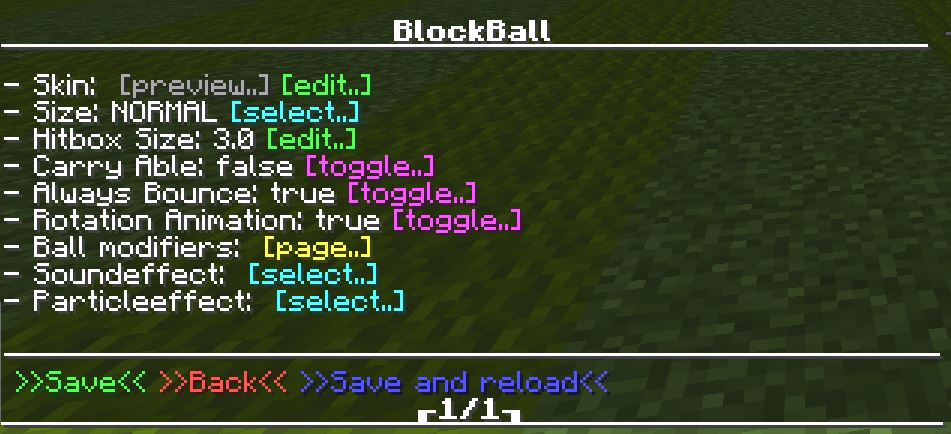
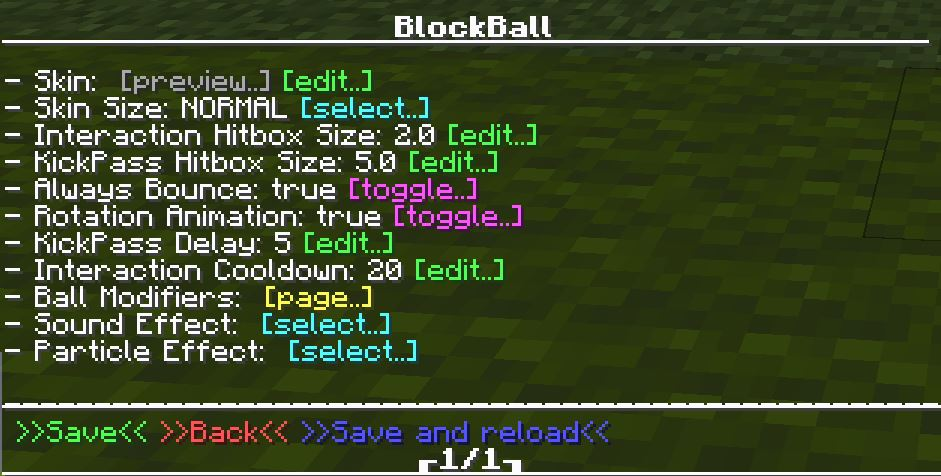
#333 Updated ball docs.

diff --git a/docs/source/customizing/ball.rst b/docs/source/customizing/ball.rst
@@ -1,11 +1,11 @@
 Ball
 ====
 
-One of the most outstanding features of BlockBall is it to provide a really awesome looking ball with working animations. You
+One of the most outstanding features of BlockBall is it to provide a really awesome looking ball with its own physic engine. You
 **do not** have to install a mod or Texture Pack in order to make this possible.
 
-The origin physic engine of the Ball was developed back in 2015 and is now replaced by the more advanced 2018 engine. There are many
-modifier values you can adjust.
+The original physic engine of the Ball was developed back in 2015 which was replaced by a more advanced engine in 2018. Finally,
+the engine was completely redesigned from scratch to fully run on packets only in 2020.
 
 .. image:: ../_static/images/ball3.png
 
@@ -14,9 +14,7 @@ You can even set your own skin or custom texture model to it.
 Configuring ingame
 ~~~~~~~~~~~~~~~~~~
 
-The Ball is per default correctly configured but can be changed for different situations like a small or a very large arena.
-
-
+The Ball is per default correctly configured but can be adjusted to deal with different situations like small or a very large arenas.
 
 1. Go to the **Settings Page** of your arena
 2. Open the **Ball Settings Page**
@@ -24,7 +22,7 @@ The Ball is per default correctly configured but can be changed for different si
 .. image:: ../_static/images/ball1.JPG
 
 3. Customize the skin or other values to your own needs.
-4. Open the Ball modifiers page to adjust modifiers like the rolling distance
+4. Open the Ball modifiers page to adjust even more physic engine modifiers.
 
 .. image:: ../_static/images/ball2.JPG
 
@@ -43,142 +41,173 @@ At this stage, you should be able to find your arena save file. If not, please t
 .. code-block:: yaml
 
     ball:
-      skin: http://textures.minecraft.net/texture/8e4a70b7bbcd7a8c322d522520491a27ea6b83d60ecf961d2b4efbbf9f605d
       size: NORMAL
-      hitbox-size: 3.0
-      carry-able: false
-      always-bounce: true
+      skin: http://textures.minecraft.net/texture/8e4a70b7bbcd7a8c322d522520491a27ea6b83d60ecf961d2b4efbbf9f605d
+      interaction-hitbox-size: 2.0
+      kickpass-hitbox-size: 5.0
+      kickpass-delay-ticks: 5
+      interaction-cooldown-ticks: 20
       rotating: true
+      enable-kick: true
+      enable-pass: true
+      enable-interact: true
+      hitbox-relocation: 0.0
+      always-bounce: true
       modifiers:
+        gravity-mod: 0.07
+        air-resistance: 0.001
+        rolling-resistance: 0.1
         horizontal-touch: 1.0
         vertical-touch: 1.0
-        horizontal-kick: 1.5
-        vertical-kick: 1.5
-        horizontal-throw: 1.0
-        vertical-throw: 1.0
-        rolling-distance: 1.0
-        gravity: 1.0
+        shot-velocity: 1.5
+        pass-velocity: 1.2
+        max-spin: 0.08
+        max-pitch: 60
+        min-pitch: 0
+        default-pitch: 20
       particle-effects:
-        onmove:
-          effecting: EVERYONE
-          name: none
+        ONINTERACTION:
+          name: NONE
           amount: 0
           speed: 0.0
           offset:
             x: 0.0
             y: 0.0
             z: 0.0
-        onkick:
-          effecting: EVERYONE
-          name: none
+          data: 0
+        ONMOVE:
+          name: NONE
           amount: 0
           speed: 0.0
           offset:
             x: 0.0
             y: 0.0
             z: 0.0
-        onspawn:
-          effecting: EVERYONE
-          name: none
+          data: 0
+        ONSPAWN:
+          name: EXPLOSION_NORMAL
+          amount: 10
+          speed: 0.1
+          offset:
+            x: 2.0
+            y: 2.0
+            z: 2.0
+          data: 0
+        ONKICK:
+          name: EXPLOSION_LARGE
+          amount: 2
+          speed: 0.1
+          offset:
+            x: 0.1
+            y: 0.1
+            z: 0.1
+          data: 0
+        ONGOAL:
+          name: NONE
           amount: 0
           speed: 0.0
           offset:
             x: 0.0
             y: 0.0
             z: 0.0
-        onthrow:
-          effecting: EVERYONE
-          name: none
+          data: 0
+        ONTHROW:
+          name: NONE
           amount: 0
           speed: 0.0
           offset:
             x: 0.0
             y: 0.0
             z: 0.0
-        oninteraction:
-          effecting: EVERYONE
-          name: none
+          data: 0
+        ONGRAB:
+          name: NONE
           amount: 0
           speed: 0.0
           offset:
             x: 0.0
             y: 0.0
             z: 0.0
-        ongrab:
-          effecting: EVERYONE
-          name: none
-          amount: 0
-          speed: 0.0
-          offset:
-            x: 0.0
-            y: 0.0
-            z: 0.0
+          data: 0
       sound-effects:
-        onmove:
-          effecting: EVERYONE
+        ONINTERACTION:
           name: none
-          volume: 0.0
           pitch: 0.0
-        onkick:
+          volume: 0.0
           effecting: EVERYONE
+        ONMOVE:
           name: none
-          volume: 0.0
           pitch: 0.0
-        onspawn:
+          volume: 0.0
           effecting: EVERYONE
+        ONSPAWN:
           name: none
-          volume: 0.0
           pitch: 0.0
-        onthrow:
+          volume: 0.0
           effecting: EVERYONE
-          name: none
-          volume: 0.0
-          pitch: 0.0
-        oninteraction:
+        ONKICK:
+          name: ENTITY_ZOMBIE_ATTACK_DOOR_WOOD
+          pitch: 1.0
+          volume: 10.0
           effecting: EVERYONE
+        ONGOAL:
           name: none
-          volume: 0.0
           pitch: 0.0
-        ongrab:
+          volume: 0.0
           effecting: EVERYONE
+        ONTHROW:
           name: none
-          volume: 0.0
           pitch: 0.0
-      wall-bouncing: {}
+          volume: 0.0
+          effecting: EVERYONE
+        ONGRAB:
+          name: none
+          pitch: 0.0
+          volume: 0.0
+          effecting: EVERYONE
+      spawn-delay: 0
+      spawnpoint:
+        world: world
+        x: 1587.4580324859699
+        y: 4.0
+        z: -1606.6457980542893
+        yaw: 169.0550537109375
+        pitch: 28.3505802154541
 
 3. Customize the available options to your own needs.
 
 Properties
 ~~~~~~~~~~
 
-* Skin: Name of a player using this skin or a skin URL.
 * Size: Size of the ball. Can be NORMAL or SMALL.
-* Hitbox Size: Size of the ball hitbox intercepting player movements. Does not have an impact on left or right clicking the ball.
-* Enable Kick: Toggles leftclicking to shoot the ball.
-* Enable Pass: Toggles rightclicking to pass the ball.
-* Enable Interact: Toggles moving into the ball to move the ball.
-* Carry Able: Should the Ball be able to grabbed by players. Should not be used for BlockBall games yet only for fun and testing.
-* Always Bounce: Should the ball bounce on walls?
-* Rotation Animation: Should the ball rotate depending on its direction and speed?
+* Skin: Name of a player using this skin or a skin URL.
+* Interaction Hitbox Size: Size of the ball hitbox intercepting player movements. Does not have an impact on left or right clicking the ball.
+* KickPass Hitbox Size: Size of the ball hitbox intercepting player left clicks and right clicks. Does not have an impact on player movements.
+* KickPass Delay: Delay in ticks until the ball executes the movement action after being clicked.
+* Interaction Cooldown: Delay in ticks until the ball can detect another movement action.
+* Rotating: Should the ball rotate depending on its direction and speed?
+* Enable Kick: Should the ball detect left clicks on it?
+* Enable Pass: Should the ball detect right clicks on it?
+* Enable Interact: Should the ball detect player movements?
+* Hitbox Relocation: Y-Axe offset to make the ball move more close to the ground or higher up.
+* Always Bounce: Should the ball bounce of from blocks?
 * Ball modifiers: Collection of modifiers explained below.
+* Spawn Delay: Delay until the ball spawns.
+* Spawnpoint: Ball spawnpoint properties.
 * Sound-effect: Sound being played for a certain action.
 * Particle-effect: Particle being generated for a certain action.
 
 Modifier Properties
 ~~~~~~~~~~~~~~~~~~~
 
-* Touch Strength: Horizontal or Vertical speed/distance modifier the ball flies when an animal, monster or player runs into the ball.
-* Kick Strength: Horizontal or Vertical speed/distance modifier the ball flies when a player leftclicks the ball.
-* Throw Strength: Horizontal or Vertical speed/distance modifier the ball flies when a player grabs the ball by rightclicking it and clicking again to throw it.
-* Rolling Distance: The speed/distance modifier the ball rolls after being touched, kicked or thrown
-* Gravity Modifier: The speed modifier how fast a ball falls onto the ground. A negative value allows the ball to float into infinity.
-
-
-
-
-
-
-
-
-
-
+* Gravity Modifier: Strength of the gravity. A negative value allows the ball to float into inifinity.
+* Air Resistance: The reducement of speed per tick if the ball flies in the air.
+* Rolling Resistance: The reducement of speed per tick if the ball rolls on the ground.
+* Horizontal Touch: The horizontal speed modifier the ball flies when a player runs into the ball.
+* Vertical Touch: The vertical speed modifier the ball flies when a player runs into the ball.
+* Shoot Velocity: The speed modifier when leftclicking the ball.
+* Pass Velocity: The speed modififer when rightclicking the ball.
+* Max spin for the magnus force calculation.
+* Max pitch for the magnus force calculation.
+* Min pitch for the magnus force calculation.
+* Default pitch for the magnus force calculation.

diff --git a/docs/source/gettingstarted/installing.rst b/docs/source/gettingstarted/installing.rst
@@ -19,7 +19,7 @@ Spigot/CraftBukkit/Sponge
 PlaceholderAPI
 ~~~~~~~~~
 
-This plugin `broadcasts values <../customizing/placeholders.html> to the PlaceHolderAPI plugin.
+This plugin `broadcasts values <../customizing/placeholders.html>`__ to the PlaceHolderAPI plugin.
 
 Download
 ~~~~~~~~
